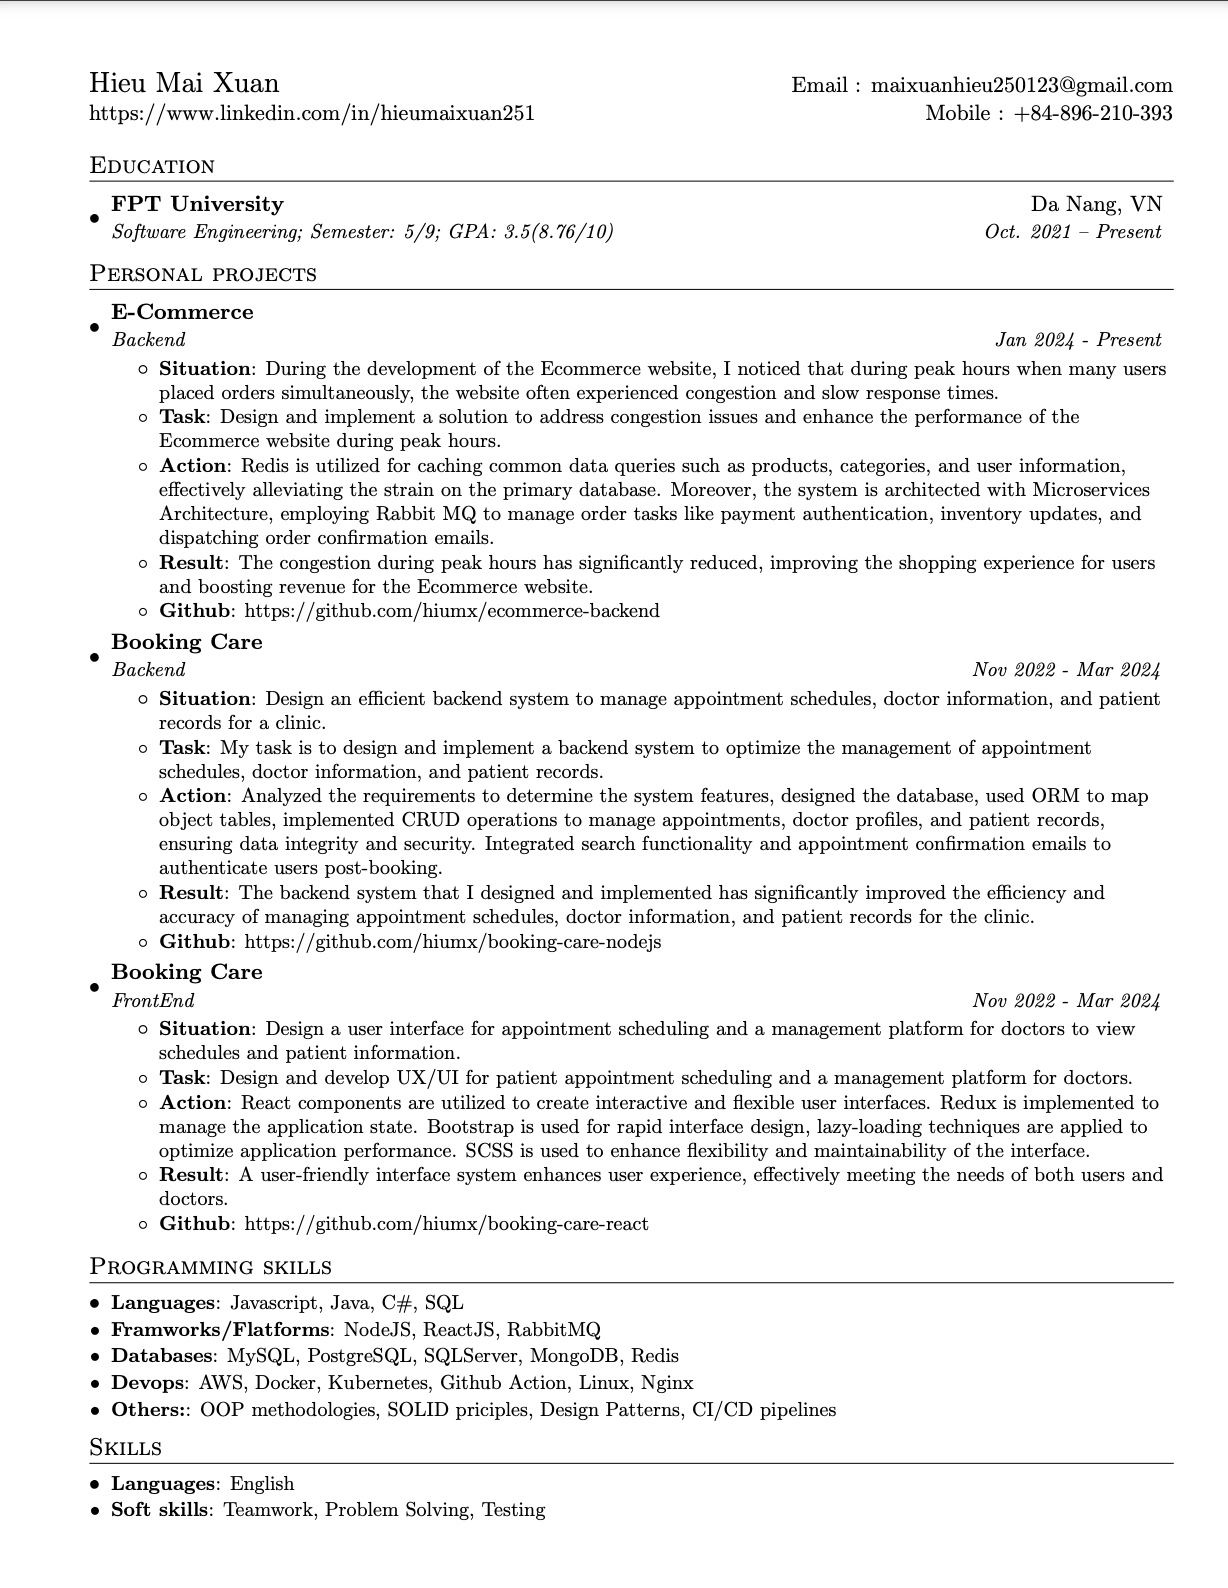
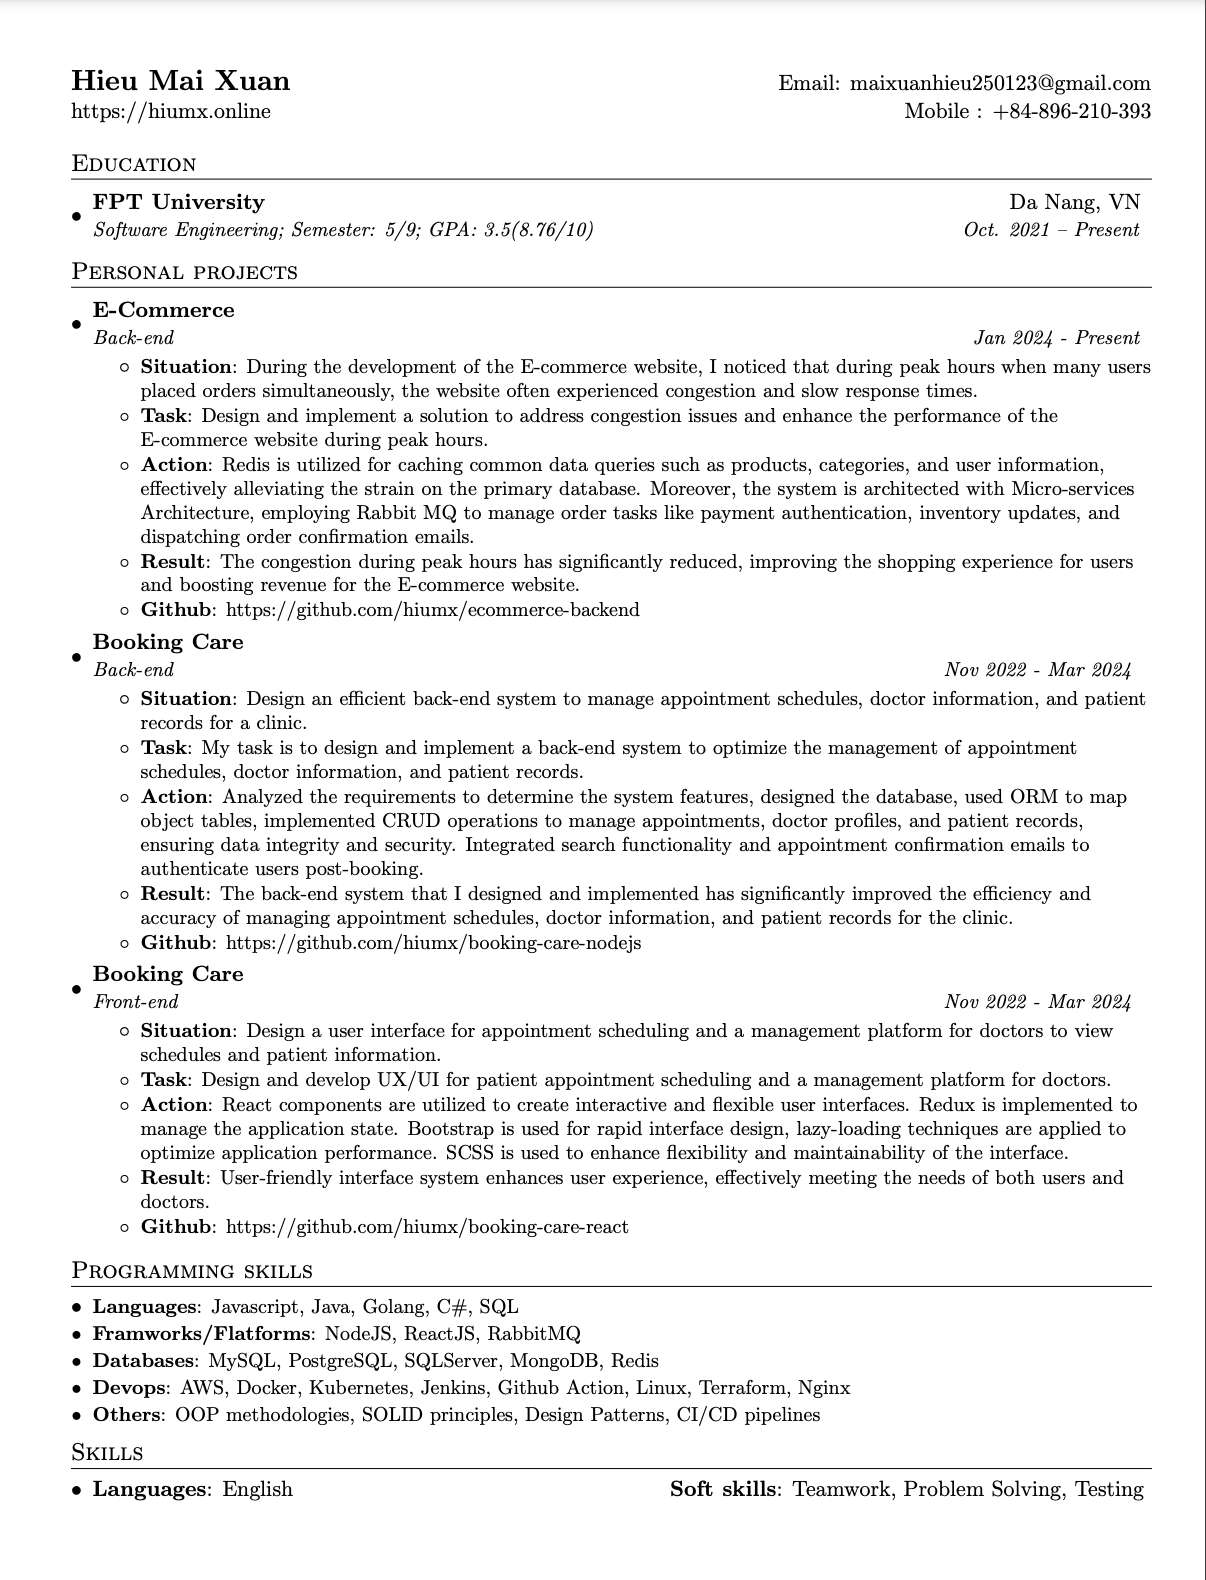
Update cv image

diff --git a/README.md b/README.md
@@ -51,4 +51,4 @@
     <img src="https://cultofthepartyparrot.com/parrots/hd/scienceparrot.gif" width="30" height="30"/>
 </div> -->
 
-![my-cv-img](https://github.com/hiumx/hiumx/blob/main/images/my-cv-v2.png)
+![my-cv-img](https://github.com/hiumx/hiumx/blob/main/images/my-cv.png)
